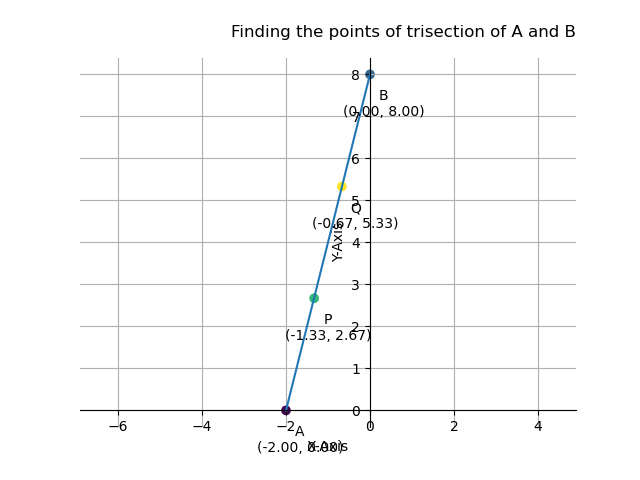
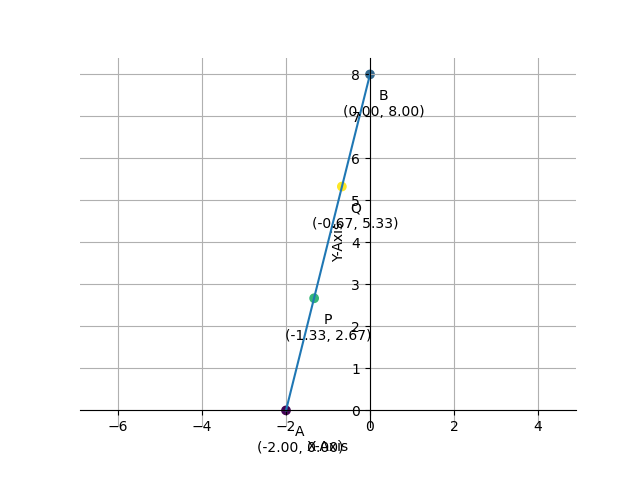
another set of changes

Changed region(s): [[0.375, 0.0312, 0.9062, 0.0938]]

diff --git a/Assignment3/codes/generate.c b/Assignment3/codes/generate.c
@@ -34,15 +34,14 @@ int main() {
 		printf("Error opening file!\n");
 		return 1;
 	}
-	fprintf(file, "x\ty\t of P Q A B\n");
 	fprintf(file, "%.02lf\t", P[0][0]);
-	fprintf(file, "%.02lf\t", P[1][0]);                                                                                                
+	fprintf(file, "%.02lf\t\n", P[1][0]);                                                                                                
         fprintf(file, "%.02lf\t", Q[0][0]);                                                                                                                                                 
-        fprintf(file, "%.02lf\t", Q[1][0]);
+        fprintf(file, "%.02lf\t\n", Q[1][0]);
 	fprintf(file, "%.02lf\t", M[0][1]);                                                                                                                                                 
-        fprintf(file, "%.02lf\t", M[1][1]);
+        fprintf(file, "%.02lf\t\n", M[1][1]);
 	fprintf(file, "%.02lf\t", M[0][0]);                                                                                                                                                 
-        fprintf(file, "%.02lf\t", M[1][0]);
+        fprintf(file, "%.02lf\t\n", M[1][0]);
 	fclose(file);
 	printf("Results have been written to values.dat\n");
 

diff --git a/Assignment3/main.tex b/Assignment3/main.tex
@@ -68,18 +68,18 @@ Points $\vec{P}$ and $\vec{Q}$ trisect the line segment joining the points $\vec
       \input{tables/table1.tex}
       \caption{}
     \end{table}\\
- Using the section formula:
+ Using the section formula,
 \begin{align}
 	\vec{P} = \frac{1}{1+{\frac{1}{2}}}\brak{\myvec{-2 \\ 0}+\frac{1}{2}\myvec{0 \\ 8}}=\myvec{\frac{-4}{3} \\ \frac{8}{3}} \label{eq1.1.5.14.1}
 \end{align}
 \begin{align}
 	\vec{Q} = \frac{1}{1+{\frac{1}{2}}}\brak{\myvec{-2 \\ 0}+\frac{2}{1}\myvec{0 \\ 8}}=\myvec{\frac{-2}{3} \\ \frac{16}{3}} \label{eq1.1.5.14.2}
 \end{align}
-Thus, we have found the points of trisection to be $\vec{P} =$ \myvec{\frac{-4}{3} \\ \frac{8}{3}} and $\vec{Q} =$ \myvec{\frac{-2}{3} \\ \frac{16}{3}}. 
+which are the desired points of trisection.
     \begin{figure}[h]
         \centering
        \includegraphics[width=0.7\linewidth]{/home/gvt/Documents/sdcard/github/EE1030/Assignment3/figs/fig1.png}
-       \caption{}
+       \caption{Points of trisection of A and B.}
        \label{graph}
     \end{figure}
 \end{document}  

diff --git a/Assignment3/codes/plot.py b/Assignment3/codes/plot.py
@@ -18,16 +18,16 @@ from triangle.funcs import *
 from conics.funcs import circ_gen
 
 
-data = np.loadtxt("values.dat", skiprows=1)  # Skip the header row
+data = np.loadtxt("values.dat")  
 
-xp = data[0]
-yp = data[1]
-xq = data[2]
-yq = data[3]
-xa = data[4]
-ya = data[5]
-xb = data[6]
-yb = data[7]
+xp = data[0,0]
+yp = data[0,1]
+xq = data[1,0]
+yq = data[1,1]
+xa = data[2,0]
+ya = data[2,1]
+xb = data[3,0]
+yb = data[3,1]
 #Given points
 A = np.array(([xa, ya])).reshape(-1,1) 
 B = np.array(([xb, yb])).reshape(-1,1) 
@@ -67,7 +67,6 @@ plt.legend(loc='best')
 '''
 plt.xlabel('X-Axis')
 plt.ylabel('Y-Axis')
-plt.title('Finding the points of trisection of A and B', loc = 'right', pad = 15)
 plt.grid() # minor
 plt.axis('equal')
 plt.savefig('/home/gvt/Documents/sdcard/github/EE1030/Assignment3/figs/fig1.png')
